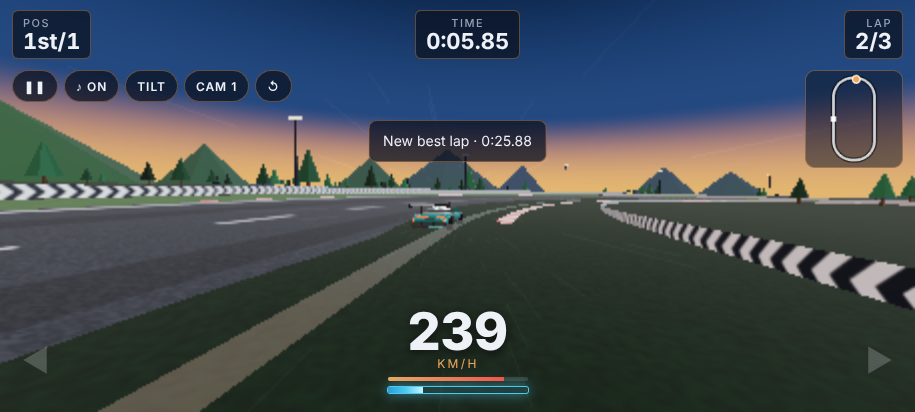
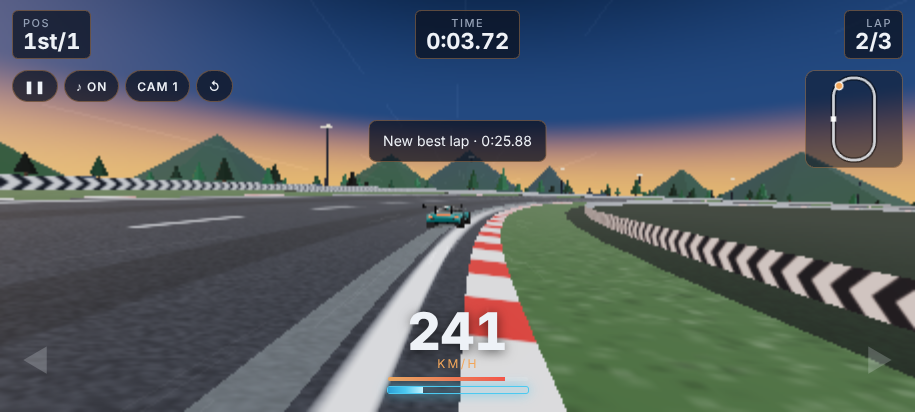
Tilt steering: Touch/Tilt setting, calibrate, sensitivity, dead zone, all orientations, fallback to Touch
Claude-Session: https://claude.ai/code/session_01GBobAJkSqpPVNqa2GTDbwk

diff --git a/src/main.js b/src/main.js
@@ -16,7 +16,7 @@ import { levelOf, slot, rivalSpec, AUTO_BRAKE, AUTO_ASSIST } from "./race.js";
 import { EVENTS, eventUnlocked, trackUnlocked, judge } from "./career.js";
 import { UPGRADES, MAX_LEVEL, upgradeCost, RIM_COST, raceRewards } from "./economy.js";
 import { Vehicle } from "./vehicle.js";
-import { input, bindZones, readControls, setTilt } from "./input.js";
+import { input, bindZones, readControls, setTilt, calibrateTilt, tiltCfg } from "./input.js";
 import * as sfx from "./audio.js";
 import { ChaseCam } from "./camera.js";
 import { Driver, RIVALS, collide } from "./ai.js";
@@ -405,6 +405,9 @@ function refreshSettings() {
   document.querySelectorAll("#qualityTabs .tab").forEach((b) => b.setAttribute("aria-pressed", String(b.dataset.q === world.qname)));
   document.querySelectorAll("#camTabs .tab").forEach((b) => b.setAttribute("aria-pressed", String(b.dataset.c === chase.mode)));
   document.querySelectorAll("#soundTabs .tab").forEach((b) => b.setAttribute("aria-pressed", String((b.dataset.s === "1") === save.settings.sound)));
+  const tiltMode = input.tiltOn;
+  document.querySelectorAll("#ctrlTabs .tab").forEach((b) => b.setAttribute("aria-pressed", String((b.dataset.m === "tilt") === tiltMode)));
+  $("tiltOpts").hidden = !tiltMode; $("tiltSens").value = tiltCfg.sens;
   document.querySelectorAll("#assistTabs .tab").forEach((b) => b.setAttribute("aria-pressed", String(b.dataset.a === (save.settings.assist || "auto"))));
   document.querySelectorAll("#lineTabs .tab").forEach((b) => b.setAttribute("aria-pressed", String(b.dataset.l === (save.settings.line || "auto"))));
   document.querySelectorAll("#diffTabs .tab").forEach((b) => b.setAttribute("aria-pressed", String(b.dataset.d === (save.settings.difficulty || "easy"))));
@@ -430,10 +433,29 @@ $("muteBtn").addEventListener("click", () => {
   save.settings.sound = !save.settings.sound; sfx.setMuted(!save.settings.sound); writeSave();
   $("muteBtn").textContent = save.settings.sound ? "♪ On" : "♪ Off";
 });
-$("tiltBtn").addEventListener("click", async () => {
-  const on = await setTilt(!input.tiltOn, toast);
-  $("tiltBtn").textContent = on ? "Tilt ✓" : "Tilt"; $("tiltBtn").classList.toggle("on", on);
-});
+// ---------- tilt controls ----------
+tiltCfg.zero = save.settings.tiltZero || 0; tiltCfg.sens = save.settings.tiltSens || 1;
+async function useControls(mode) {
+  if (mode === "tilt") {
+    const ok = await setTilt(true, toast);
+    if (!ok) mode = "touch";
+  } else await setTilt(false, toast);
+  save.settings.controls = mode; writeSave();
+  $("tiltBtn").hidden = mode !== "tilt";
+  refreshSettings();
+  return mode;
+}
+function calibrate() {
+  save.settings.tiltZero = calibrateTilt(); writeSave();
+  toast("Straight ahead set. Hold the phone like this to drive straight.", 2200);
+}
+$("tiltBtn").addEventListener("click", calibrate);
+$("calBtn").addEventListener("click", calibrate);
+$("tiltSens").addEventListener("input", (e) => { tiltCfg.sens = Number(e.target.value); save.settings.tiltSens = tiltCfg.sens; writeSave(); });
+document.querySelectorAll("#ctrlTabs .tab").forEach((b) => b.addEventListener("click", () => { sfx.click(); useControls(b.dataset.m); }));
+// tilt needs a tap before some browsers allow the sensor, so re-enable it on the first tap after loading
+if (save.settings.controls === "tilt") addEventListener("pointerdown", function once() { removeEventListener("pointerdown", once); useControls("tilt"); });
+
 $("respawnBtn").addEventListener("click", () => { if (G.mode === "race") G.player.respawn(); });
 bindZones($("zoneL"), $("zoneR"));
 $("camBtn").addEventListener("click", () => {
@@ -718,6 +740,8 @@ if (TEST) {
     get player() { const v = G.player; return { x: v.x, z: v.z, h: v.h, vF: v.vF, totalD: v.totalD, boost: v.boost, boosting: v.boosting, drifting: v.drifting, driftAngle: v.driftAngle, lat: v.lat, hErr: wrapA(v.h - v.p.h), bend: Math.abs(G.path.cs[v.p.i]) > 0.004 ? Math.sign(G.path.cs[v.p.i]) : 0 }; },
     get skidCount() { return skids.n; },
     setBoost(b) { G.player.boost = b; },
+    tilt(beta, gamma) { window.dispatchEvent(new DeviceOrientationEvent("deviceorientation", { beta, gamma, alpha: 0 })); },
+    get tiltOn() { return input.tiltOn; },
     setSetting(k, val) { save.settings[k] = val; writeSave(); applyAids(); },
     get laps() { return G.lapTimes.slice(); },
     get place() { return G.place; },

diff --git a/sw.js b/sw.js
@@ -1,6 +1,6 @@
 // Generated by scripts/sw.mjs. Cache-first service worker so Apex Ring works offline once installed.
-const CACHE = "apex-ring-ac2b856187";
-const FILES = ["./","./icons/icon-192.png","./icons/icon-512.png","./icons/icon.svg","./index.html","./manifest.webmanifest","./src/ai.js","./src/assist.js","./src/audio.js","./src/camera.js","./src/career.js","./src/carmodel.js","./src/cars.js","./src/economy.js","./src/effects.js","./src/env.js","./src/ghost.js","./src/input.js","./src/main.js","./src/minimap.js","./src/race.js","./src/rng.js","./src/save.js","./src/scene.js","./src/scenery.js","./src/showroom.js","./src/textures.js","./src/track.js","./src/trackmesh.js","./src/tracks.js","./src/vehicle.js","./styles.css","./vendor/three/addons/environments/RoomEnvironment.js","./vendor/three/addons/postprocessing/EffectComposer.js","./vendor/three/addons/postprocessing/MaskPass.js","./vendor/three/addons/postprocessing/OutputPass.js","./vendor/three/addons/postprocessing/Pass.js","./vendor/three/addons/postprocessing/RenderPass.js","./vendor/three/addons/postprocessing/ShaderPass.js","./vendor/three/addons/postprocessing/UnrealBloomPass.js","./vendor/three/addons/shaders/CopyShader.js","./vendor/three/addons/shaders/LuminosityHighPassShader.js","./vendor/three/addons/shaders/OutputShader.js","./vendor/three/addons/utils/BufferGeometryUtils.js","./vendor/three/three.core.js","./vendor/three/three.module.js"];
+const CACHE = "apex-ring-cc2f06555d";
+const FILES = ["./","./icons/icon-192.png","./icons/icon-512.png","./icons/icon.svg","./index.html","./manifest.webmanifest","./src/ai.js","./src/assist.js","./src/audio.js","./src/camera.js","./src/career.js","./src/carmodel.js","./src/cars.js","./src/economy.js","./src/effects.js","./src/env.js","./src/ghost.js","./src/input.js","./src/main.js","./src/minimap.js","./src/race.js","./src/rng.js","./src/save.js","./src/scene.js","./src/scenery.js","./src/showroom.js","./src/textures.js","./src/tilt.js","./src/track.js","./src/trackmesh.js","./src/tracks.js","./src/vehicle.js","./styles.css","./vendor/three/addons/environments/RoomEnvironment.js","./vendor/three/addons/postprocessing/EffectComposer.js","./vendor/three/addons/postprocessing/MaskPass.js","./vendor/three/addons/postprocessing/OutputPass.js","./vendor/three/addons/postprocessing/Pass.js","./vendor/three/addons/postprocessing/RenderPass.js","./vendor/three/addons/postprocessing/ShaderPass.js","./vendor/three/addons/postprocessing/UnrealBloomPass.js","./vendor/three/addons/shaders/CopyShader.js","./vendor/three/addons/shaders/LuminosityHighPassShader.js","./vendor/three/addons/shaders/OutputShader.js","./vendor/three/addons/utils/BufferGeometryUtils.js","./vendor/three/three.core.js","./vendor/three/three.module.js"];
 
 self.addEventListener("install", (e) => { e.waitUntil(caches.open(CACHE).then((c) => c.addAll(FILES)).then(() => self.skipWaiting())); });
 self.addEventListener("activate", (e) => {

diff --git a/src/input.js b/src/input.js
@@ -1,3 +1,5 @@
+import { tiltCfg, tiltRoll, tiltSteer } from "./tilt.js";
+
 // Keyboard, touch and optional phone tilt, merged into one control state.
 // Touch: hold the left or right half of the screen to steer. Touch BOTH halves together twice (within ~0.45 s)
 // to fire boost. Keyboard: arrows / A-D steer, Space (or up arrow) boosts.
@@ -61,26 +63,33 @@ export function readControls(consume = true) {
   return { steer: Math.max(-1, Math.min(1, s)), boost };
 }
 
+// ---------- tilt ---------- (maths in tilt.js)
+const screenAngle = () => (screen.orientation && typeof screen.orientation.angle === "number" ? screen.orientation.angle : window.orientation || 0);
 let tiltSeen = false;
 function onOrient(e) {
   if (e.gamma == null && e.beta == null) return;
   tiltSeen = true;
-  const ang = (screen.orientation && screen.orientation.angle) || window.orientation || 0;
-  const a = ang === 90 ? e.beta : ang === -90 || ang === 270 ? -e.beta : e.gamma;
-  const v = (a || 0) / 20;
-  input.tilt = Math.abs(v) < 0.08 ? 0 : Math.max(-1, Math.min(1, v));
+  tiltCfg.roll = tiltRoll(e.beta, e.gamma, screenAngle());
+  input.tilt = tiltSteer(tiltCfg.roll);
 }
+export function calibrateTilt() { tiltCfg.zero = tiltCfg.roll; input.tilt = 0; return tiltCfg.zero; }
 
-// Turn tilt on or off. Resolves to true when tilt is working.
+// Turn tilt on or off. Resolves to true when the sensor is working; otherwise says why and stays off.
 export async function setTilt(on, toast) {
   if (!on) { input.tiltOn = false; input.tilt = 0; removeEventListener("deviceorientation", onOrient); return false; }
   try {
-    if (typeof DeviceOrientationEvent !== "undefined" && typeof DeviceOrientationEvent.requestPermission === "function") {
+    if (typeof DeviceOrientationEvent === "undefined") throw new Error("none");
+    if (typeof DeviceOrientationEvent.requestPermission === "function") {
       const r = await DeviceOrientationEvent.requestPermission(); if (r !== "granted") throw new Error("denied");
     }
-  } catch (err) { toast("Tilt isn't allowed here. Use the pads instead."); return false; }
+  } catch (err) {
+    toast(err.message === "denied" ? "Motion sensor permission was refused, so steering is back on Touch." : "This browser has no motion sensor, so steering is back on Touch.", 4500);
+    return false;
+  }
   tiltSeen = false; addEventListener("deviceorientation", onOrient); input.tiltOn = true;
   return new Promise((res) => setTimeout(() => {
-    if (!tiltSeen) { setTilt(false); toast("This device isn't reporting tilt. Use the pads instead."); res(false); } else res(true);
+    if (!tiltSeen) { setTilt(false); toast("No tilt readings from this device, so steering is back on Touch.", 4500); res(false); } else res(true);
   }, 1200));
 }
+
+export { tiltCfg };

diff --git a/index.html b/index.html
@@ -30,7 +30,7 @@
 <div class="topbtns" id="topbtns" hidden>
   <button class="pill" id="pauseBtn" type="button" aria-label="Pause">❚❚</button>
   <button class="pill" id="muteBtn" type="button" aria-label="Sound">♪ On</button>
-  <button class="pill" id="tiltBtn" type="button" aria-label="Tilt steering">Tilt</button>
+  <button class="pill" id="tiltBtn" type="button" aria-label="Calibrate tilt: set straight ahead" hidden>Centre</button>
   <button class="pill" id="camBtn" type="button" aria-label="Camera">Cam 1</button>
   <button class="pill" id="respawnBtn" type="button" aria-label="Back on track">↺</button>
 </div>
@@ -142,6 +142,14 @@
     </div>
     <div class="label">Camera</div>
     <div class="tabs" id="camTabs"><button class="tab" data-c="chase" type="button">Chase</button><button class="tab" data-c="bonnet" type="button">Bonnet</button></div>
+    <div class="label">Controls</div>
+    <div class="tabs" id="ctrlTabs"><button class="tab" data-m="touch" type="button">Touch</button><button class="tab" data-m="tilt" type="button">Tilt</button></div>
+    <div id="tiltOpts" class="tiltopts" hidden>
+      <button class="btn ghost" id="calBtn" type="button">Calibrate: hold the phone how you'll drive, then tap</button>
+      <label class="label" for="tiltSens">Tilt sensitivity</label>
+      <input type="range" id="tiltSens" min="0.5" max="2" step="0.1" value="1">
+      <div class="hint">Tilt the phone like a steering wheel. Tap both sides of the screen together twice to boost. The ⦿ Centre button in a race recalibrates.</div>
+    </div>
     <div class="label">Rivals</div>
     <div class="tabs" id="diffTabs"><button class="tab" data-d="easy" type="button">Easy</button><button class="tab" data-d="normal" type="button">Medium</button><button class="tab" data-d="hard" type="button">Hard</button></div>
     <div class="label">Steering assist</div>

diff --git a/tests/game.spec.js b/tests/game.spec.js
@@ -87,6 +87,30 @@ test.describe("Apex Ring", () => {
     await expect(page.locator("#padDrift")).toHaveCount(0);
   });
 
+  test("tilt: pick Tilt, calibrate, and tilting steers; no sensor falls back to Touch", async ({ page }) => {
+    await openGame(page, "rivals=0");
+    await page.click("#settingsBtn");
+    // no readings arrive: clear message and back to Touch
+    await page.click('#ctrlTabs [data-m="tilt"]');
+    await expect(page.locator("#toast")).toContainText("back on Touch", { timeout: 5_000 });
+    expect(await game(page, () => window.__apex.tiltOn)).toBe(false);
+    // with readings: stays on Tilt
+    await page.click('#ctrlTabs [data-m="tilt"]');
+    for (let k = 0; k < 5; k++) { await page.evaluate(() => window.__apex.tilt(50, 0)); await page.waitForTimeout(100); }
+    await page.waitForTimeout(1300);
+    expect(await game(page, () => window.__apex.tiltOn)).toBe(true);
+    await expect(page.locator("#tiltOpts")).toBeVisible();
+    await page.evaluate(() => window.__apex.tilt(50, 4)); // holding it slightly turned...
+    await page.click("#calBtn"); // ...is now straight ahead
+    expect(await game(page, () => window.__apex.save.settings.tiltZero)).not.toBe(0);
+    await page.click("#settingsBack");
+    await startRace(page);
+    await page.waitForFunction(() => window.__apex.player.vF > 20, null, { timeout: 30_000 });
+    await page.evaluate(() => window.__apex.tilt(50, 30)); // turn the phone right
+    await page.waitForFunction(() => window.__apex.player.hErr < -0.03, null, { timeout: 10_000 });
+    await page.evaluate(() => localStorage.removeItem("apexring.test.save"));
+  });
+
   test("boosting just before GO gives a perfect start", async ({ page }) => {
     await openGame(page, "speed=1&rivals=0");
     await page.click("#raceBtn");

diff --git a/tests/handling.spec.js b/tests/handling.spec.js
@@ -51,3 +51,24 @@ test("steering assist alone gets round every Easy track without touching a wall"
     expect(walls, t.id).toBe(0);
   }
 });
+
+// Tilt: build the sensor reading a phone would give when held at screen orientation `a`, tipped back `back` degrees,
+// and turned like a steering wheel by `phi` degrees clockwise. The game should read back phi.
+import { tiltRoll, tiltSteer } from "../src/tilt.js";
+function sensorFor(a, back, phi) {
+  const D = Math.PI / 180, c = Math.cos(back * D);
+  const sx = -Math.sin(phi * D) * c, sy = Math.cos(phi * D) * c, uz = Math.sin(back * D);
+  const ux = sx * Math.cos(-a * D) - sy * Math.sin(-a * D), uy = sx * Math.sin(-a * D) + sy * Math.cos(-a * D);
+  return { beta: Math.asin(uy) / D, gamma: Math.atan2(-ux, uz) / D };
+}
+test("tilt reads the steering-wheel angle in portrait and both landscape directions", () => {
+  for (const a of [0, 90, 270, -90]) for (const back of [10, 35]) for (const phi of [-20, 0, 15]) {
+    const s = sensorFor(a, back, phi);
+    expect(tiltRoll(s.beta, s.gamma, a), `a=${a} back=${back} phi=${phi}`).toBeCloseTo(phi, 0);
+  }
+  const cfg = { zero: 5, sens: 1, dead: 3 };
+  expect(tiltSteer(6, cfg)).toBe(0); // inside the dead zone
+  expect(tiltSteer(25, cfg)).toBeGreaterThan(0.5); // tilt right = steer right
+  expect(tiltSteer(-25, cfg)).toBeLessThan(-0.5);
+  expect(tiltSteer(80, cfg)).toBe(1);
+});

diff --git a/src/tilt.js b/src/tilt.js
@@ -1,0 +1,23 @@
+// Tilt steering maths (pure, so it can be unit-tested).
+// We turn the sensor's beta/gamma into the "up" direction in the device's own frame, rotate that into screen
+// coordinates (so portrait and both landscape ways round all work), and read how far the screen is rolled
+// like a steering wheel. Calibrate stores the current roll as straight ahead.
+const D = Math.PI / 180;
+export const tiltCfg = { zero: 0, sens: 1, dead: 3, roll: 0 };
+
+// Roll of the screen in degrees, positive = turned clockwise (steer right). screenAngle: 0, 90, 180, 270 / -90.
+export function tiltRoll(beta, gamma, screenAngle) {
+  const b = (beta || 0) * D, g = (gamma || 0) * D, a = (screenAngle || 0) * D;
+  const ux = -Math.cos(b) * Math.sin(g), uy = Math.sin(b);
+  const sx = ux * Math.cos(a) - uy * Math.sin(a), sy = ux * Math.sin(a) + uy * Math.cos(a);
+  return Math.atan2(-sx, sy) / D;
+}
+
+// Steering -1..1 from a roll angle, using the calibration, sensitivity and dead zone.
+export function tiltSteer(roll, cfg = tiltCfg) {
+  let d = roll - cfg.zero; d = ((d + 540) % 360) - 180;
+  if (Math.abs(d) < cfg.dead) return 0;
+  const full = 28 / cfg.sens; // degrees of roll for full lock
+  return Math.max(-1, Math.min(1, Math.sign(d) * (Math.abs(d) - cfg.dead) / full));
+}
+

diff --git a/styles.css b/styles.css
@@ -196,7 +196,7 @@ button { font-family: inherit; }
 .evb b { font: 700 17px var(--display); display: block; }
 .evb small { display: block; font-size: 11px; color: var(--muted); line-height: 1.35; }
 .evs { font: 700 15px var(--display); color: var(--amber); white-space: nowrap; }
-#career .card { background: rgba(11, 18, 32, .82); border-radius: 14px; padding: 12px; box-sizing: border-box; }
+#career .card, #settings .card, #setup .card { background: rgba(11, 18, 32, .84); border-radius: 14px; padding: 12px; box-sizing: border-box; }
 .trackpick.locked canvas { opacity: .3; }
 .trackpick.locked .trackName::after { content: " 🔒"; }
 .evhead { border-radius: 10px; padding: 8px 10px; border: 1px solid var(--edge); background: rgba(255,255,255,.04); }
@@ -259,3 +259,7 @@ button { font-family: inherit; }
 @keyframes bflash { 0% { opacity: 1; } 100% { opacity: 0; } }
 @media (prefers-reduced-motion: reduce) { #boostFlash.go { animation: none; } }
 .overlay { z-index: 10; }
+
+.tiltopts { display: flex; flex-direction: column; gap: 8px; }
+.tiltopts .btn { font-size: 15px; }
+#tiltSens { width: 100%; accent-color: var(--amber); }

diff --git a/tests/screenshots.spec.js b/tests/screenshots.spec.js
@@ -21,6 +21,10 @@ for (const [name, size] of [["portrait", { width: 412, height: 915 }], ["landsca
     await page.waitForTimeout(500);
     await page.screenshot({ path: `screenshots/career-${name}.png` });
     await page.click("#careerBack");
+    await page.click("#settingsBtn");
+    await page.waitForTimeout(400);
+    await page.screenshot({ path: `screenshots/settings-${name}.png` });
+    await page.click("#settingsBack");
     await page.click("#garageBtn");
     await page.click("#garageBack");
     await startRace(page);

diff --git a/CLAUDE.md b/CLAUDE.md
@@ -121,3 +121,10 @@ Feedback from a real Pixel 7: looks great, too hard. Five fixes, one commit each
   fires a burst of up to 2.5 s while the meter has charge, with a blue edge flash and whoosh; first-time hint when the
   meter first charges; "Boost is empty" note if tapped with no charge. Perfect start = boost tap in the last moment
   before GO. Auto-drift helped rivals too, so Easy/Medium pace retuned to 0.69/0.735 (tests still pass).
+- Fix 4 — tilt: Settings > Controls: Touch / Tilt. src/tilt.js turns deviceorientation beta/gamma into the device's
+  "up" vector, rotates it by screen.orientation.angle into screen coordinates and reads the steering-wheel roll, so
+  portrait and both landscape directions work (unit-tested with synthetic sensor readings). Calibrate button (also a
+  "Centre" pill in the race HUD while on Tilt) stores the current roll as straight ahead; sensitivity slider
+  (full lock at 28°/sensitivity); 3° dead zone. Permission is requested where the browser needs it (iOS), and re-asked
+  on the first tap after reopening the app. No sensor / refused / no readings in 1.2 s → clear message, back to Touch.
+  Double two-thumb tap still boosts in Tilt mode. Settings/race/career cards now have a solid panel behind them.
